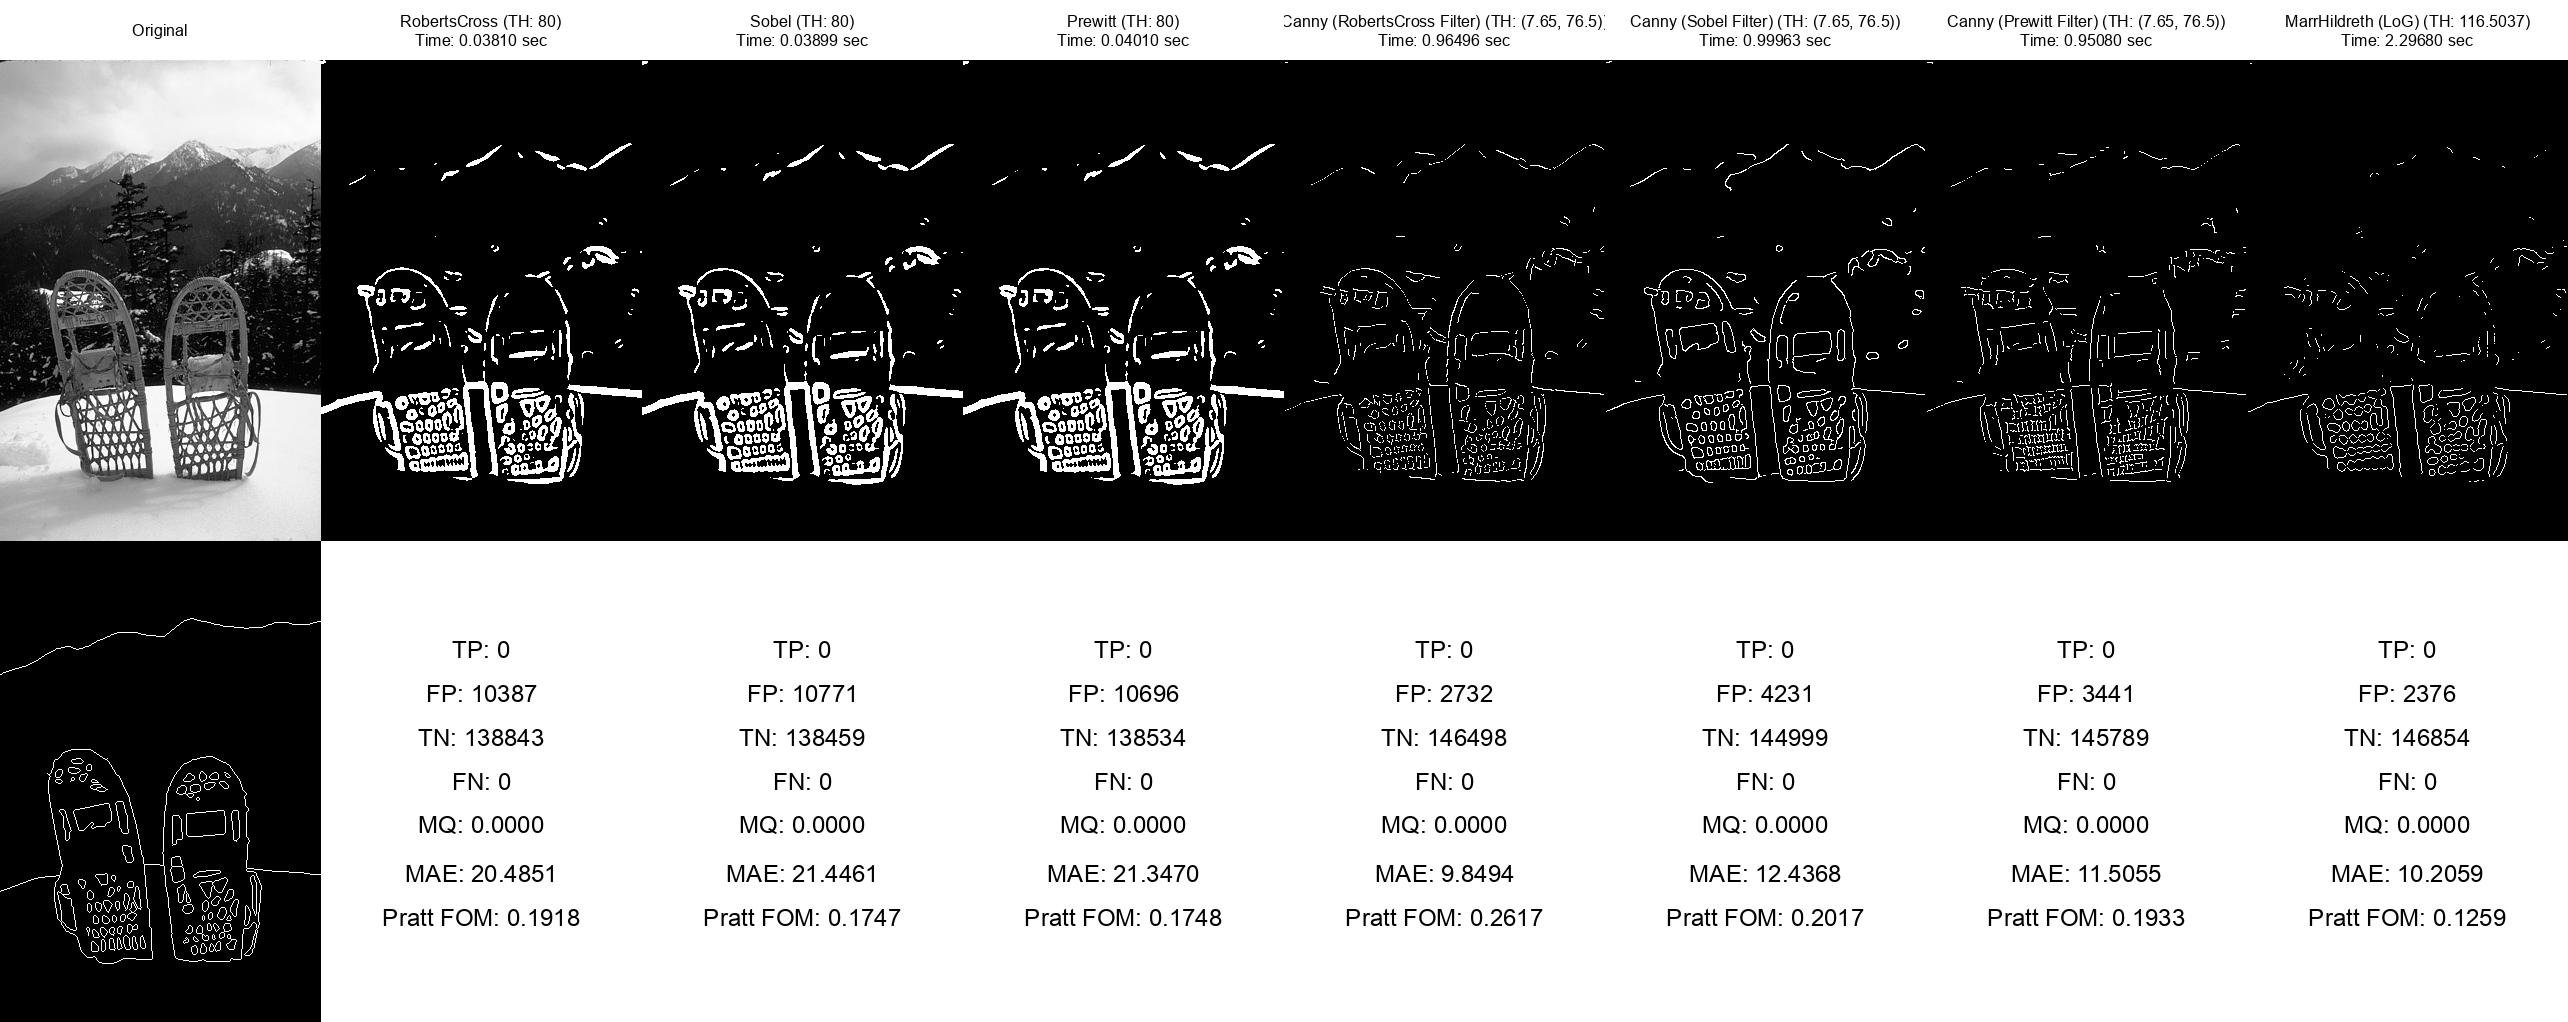
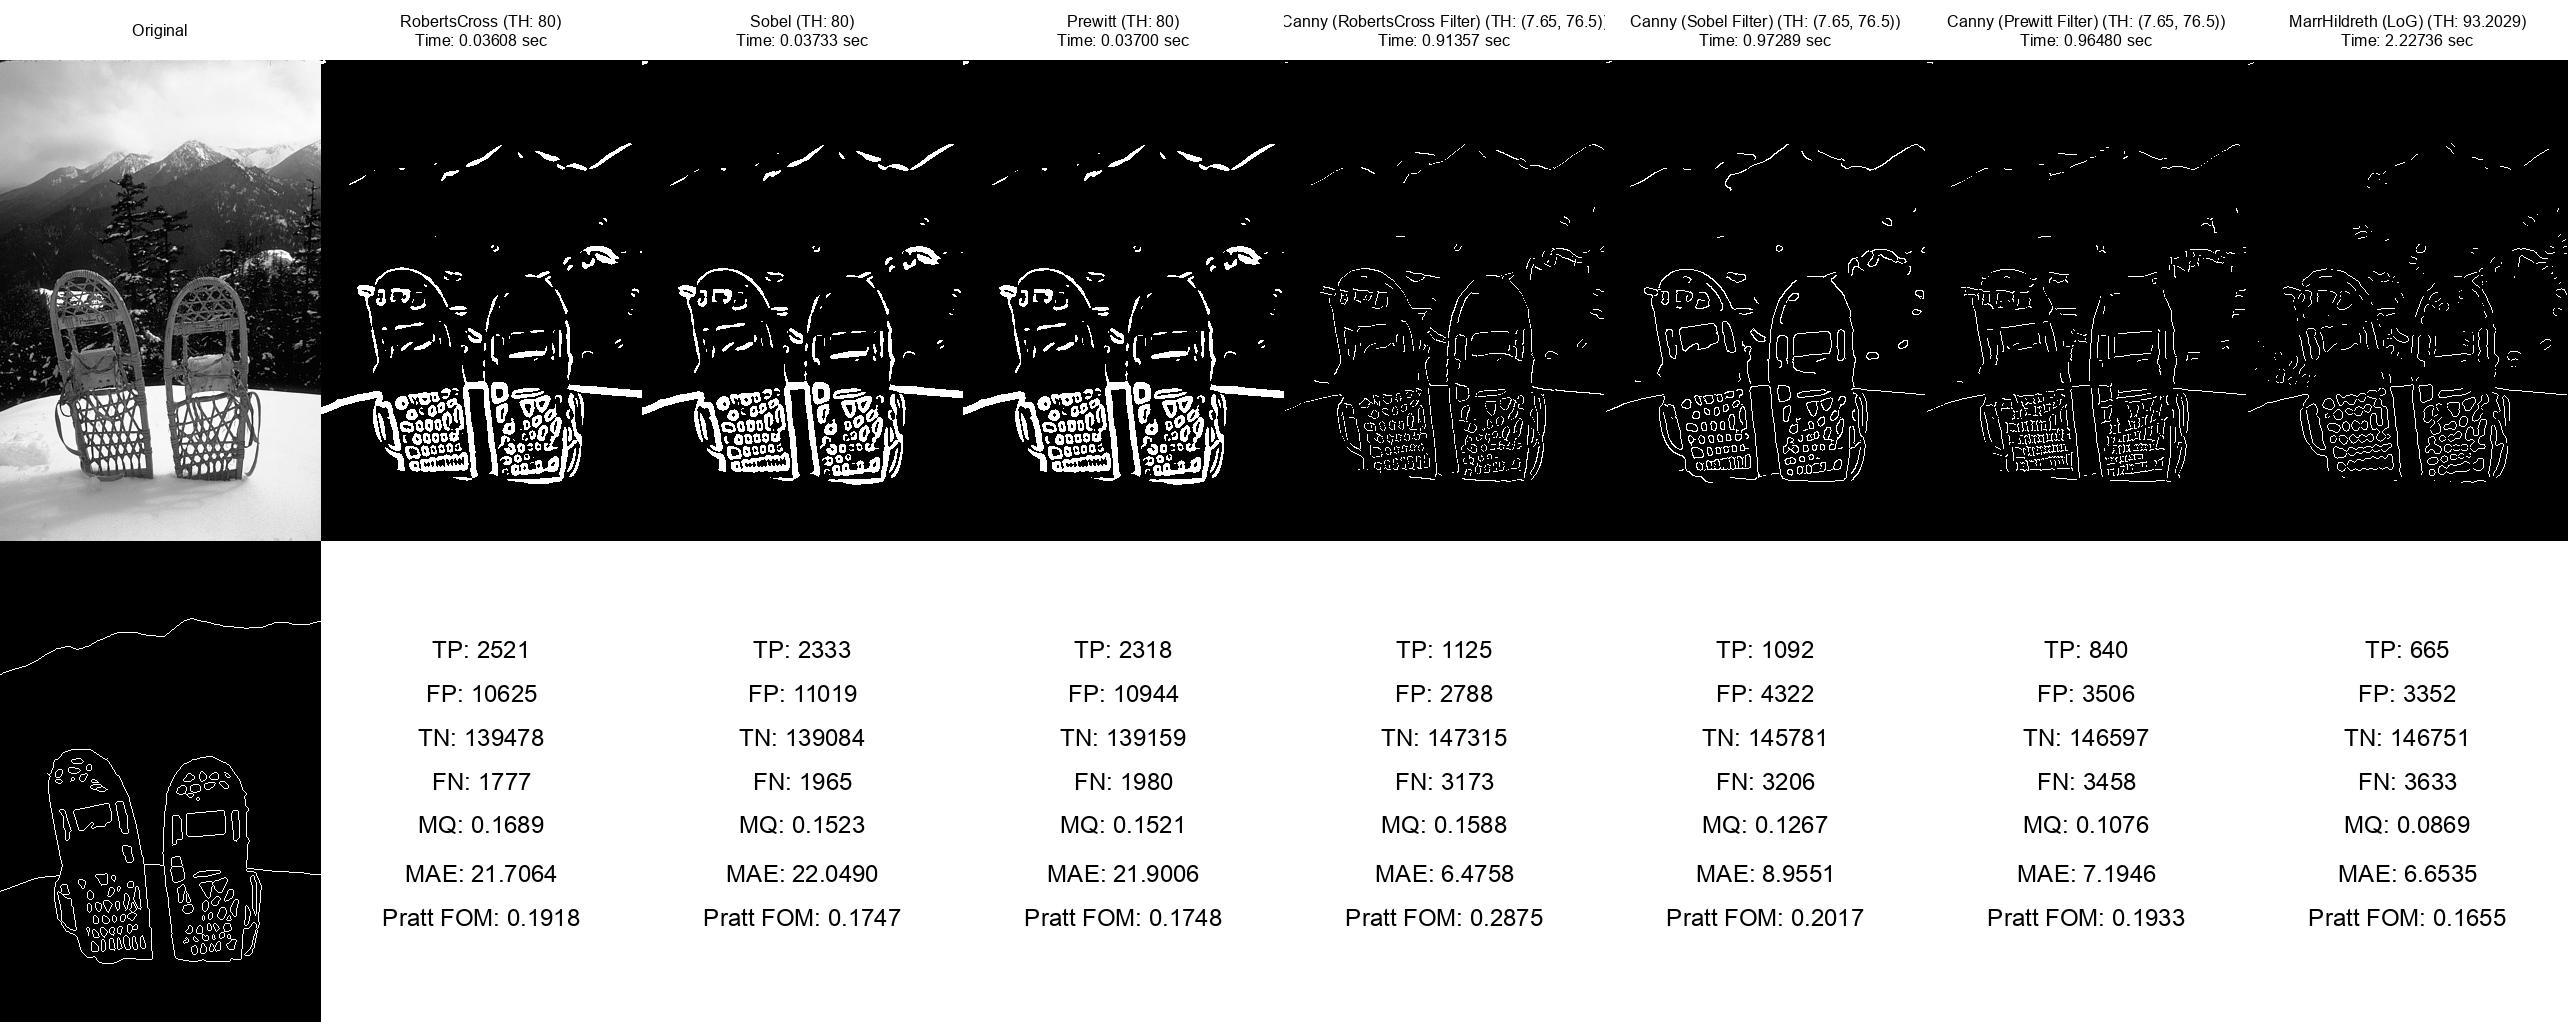
Fixed metrics and update requirements

diff --git a/src/Benchmark.py b/src/Benchmark.py
@@ -20,7 +20,7 @@ ZERO_CROSS = ["MarrHildreth"]                                           #
                                                                         #
 single_threshold = 80                                                   #    
 double_threshold = [0.10, 0.30]                                         #
-zeroCrossing_threshold = 2.5                                            #
+zeroCrossing_threshold = 2                                              #
 #########################################################################
 
 
@@ -36,11 +36,6 @@ def loadImage(filename):
 
 def loadGroundTruth(filename):
     image = ImageUtil.loadImage( groundtruth_dir+filename)
-    """
-    img = image.copy()
-    img[img > 100] = 255
-    img[img < 100] = 0
-    """
     return image
 
 def main():
@@ -69,7 +64,7 @@ def main():
         blurring_time = time.time() - blurring_time
         images = []
         results = []
-        groundTruth = Image.fromarray(groundTruth)
+        groundTruth = Image.fromarray(groundTruth).convert('1')
         for detector in edgeDetectors:
             if detector.getName() == "MarrHildret (LoG)":
                 t = time.time()

diff --git a/src/MetricsFunction.py b/src/MetricsFunction.py
@@ -5,10 +5,8 @@ class MetricsFunction():
     @staticmethod
     def prattFigureMerit(groundTruth, edges):
         edges = Image.fromarray(edges)  
-        gt = groundTruth.convert('1')
-        e = edges.convert('1')
-        Ea = np.array(gt, dtype=np.double)
-        Ed = np.array(e, dtype=np.double)
+        Ea = np.array(groundTruth, dtype=np.double)
+        Ed = np.array(edges, dtype=np.double)
         (N,M) = Ea.shape
 
         a = 0.111 # edge shift penalty constant;
@@ -45,7 +43,6 @@ class MetricsFunction():
             di=max([n1, n2, m1, m2])
             F=F+c/(1+a*di^2)
 
-        #F = F*100
         return F
 
 
